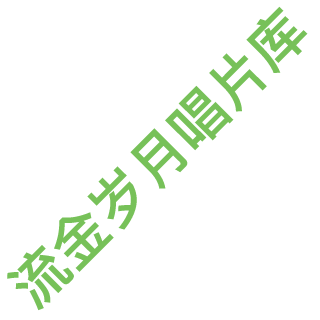
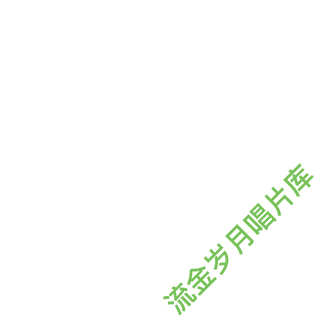
修改水印，修改出版时间。

diff --git a/portal/models.py b/portal/models.py
@@ -97,7 +97,7 @@ class Record(models.Model):
     number = models.CharField(max_length=128, blank=True, null=True, verbose_name='编号')
 
     format = models.IntegerField(choices=FORMATE_CHOICES, blank=True, null=True, verbose_name='介质')
-    release = models.CharField(max_length=8, blank=True, null=True, verbose_name='发布时间', help_text='yyyy')
+    release = models.CharField(max_length=8, blank=True, null=True, verbose_name='发布时间', help_text='yyyy|yyyymm|yyyymmdd')
 
     producer = models.CharField(max_length=128, blank=True, null=True, verbose_name='监制')
     release_order = models.CharField(max_length=8, blank=True, null=True, verbose_name='发布时间排序', help_text='yyyy0000')

diff --git a/portal/imagegenerators.py b/portal/imagegenerators.py
@@ -36,7 +36,7 @@ class ThumbnailDashboardSpec(ImageSpec):
                        position=('bottom', 'right'),
                        scale=True,
                        repeat=False,
-                       opacity=0.333)
+                       opacity=0.8)
     ]
     format = 'JPEG'
     options = {'quality': 60}
@@ -49,7 +49,7 @@ class ThumbnailSpec(ImageSpec):
                        position=('bottom', 'right'),
                        scale=True,
                        repeat=False,
-                       opacity=0.333)
+                       opacity=0.8)
     ]
     format = 'JPEG'
     options = {'quality': 60}
